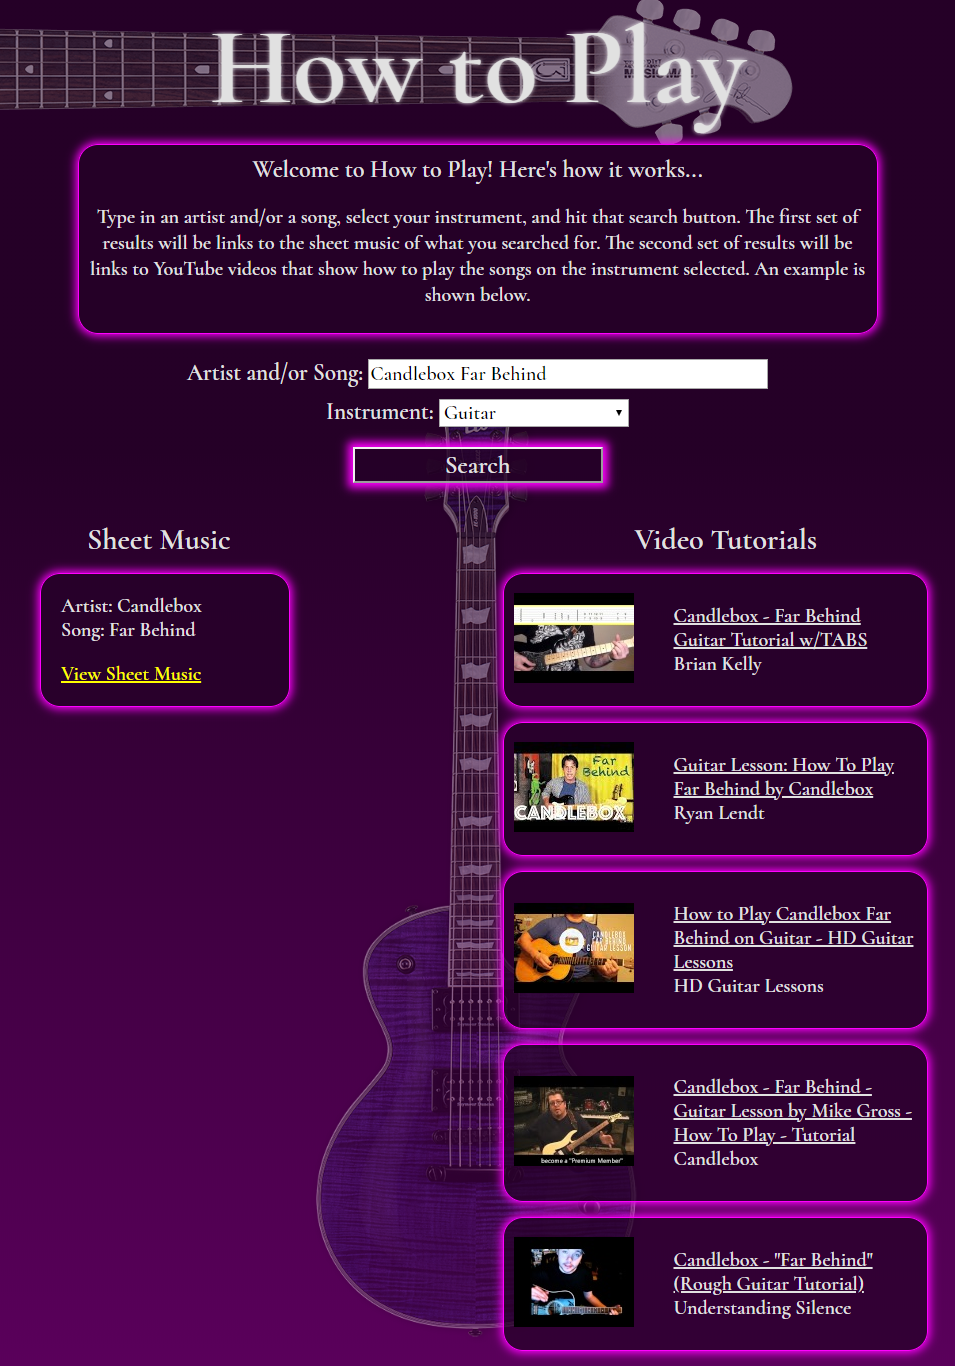
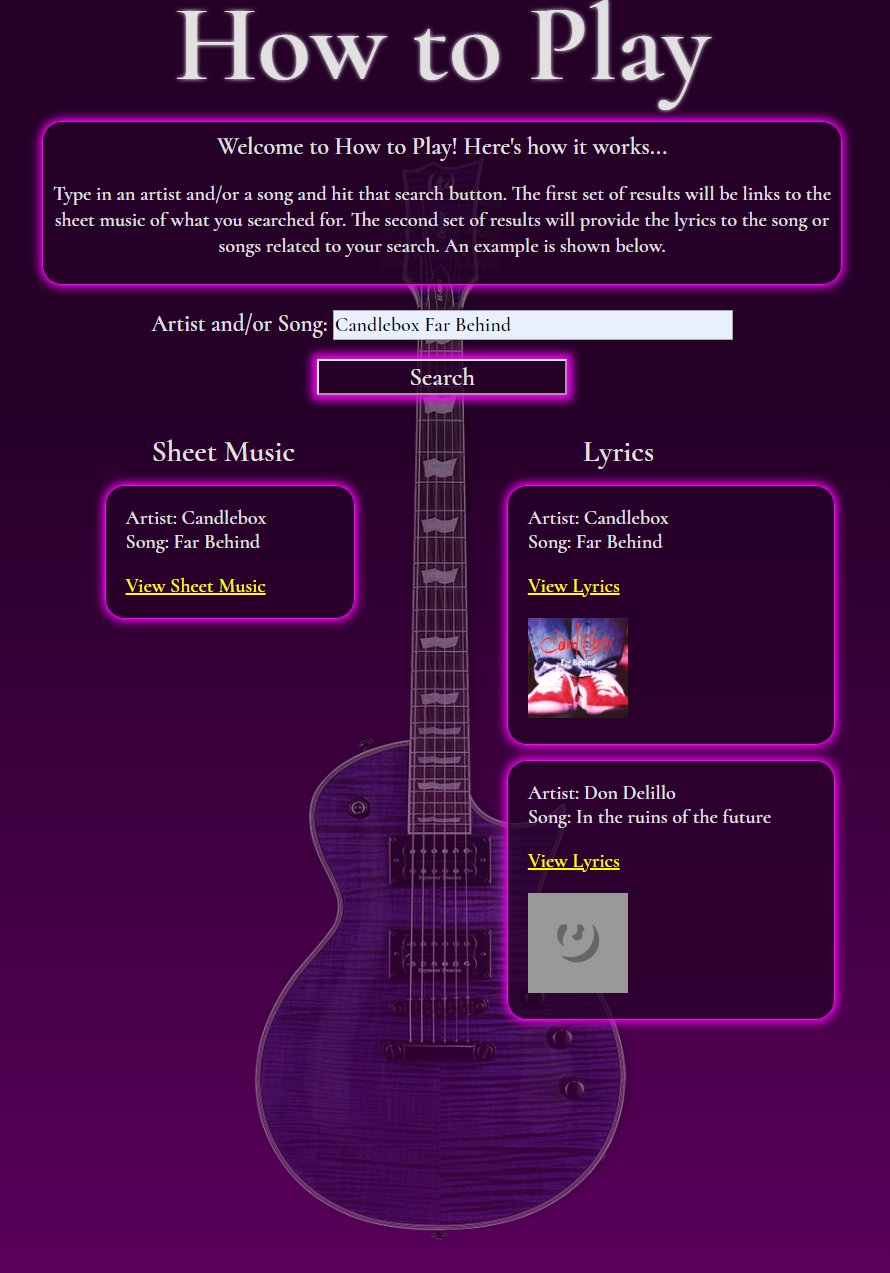
updated README and screenshot

diff --git a/index.html b/index.html
@@ -33,7 +33,8 @@
     <section class="intro-container">
         <h2>Welcome to How to Play! Here's how it works...</h2><br> 
         <p class="intro">Type in an artist and/or a song and hit that search button. 
-                         The first set of results will be links to the sheet music of what you searched for. 
+                         The first set of results will be links to the sheet music of what you searched for. After you click the link,
+                         you can choose which instrument you are playing, and the sheet music will change accordingly.
                          The second set of results will provide the lyrics to the song or songs related to your search.
                          An example is shown below.
         </p>

diff --git a/README.md b/README.md
@@ -1,14 +1,14 @@
 How to Play - https://dusven44.github.io/How-To-Play/
-A website designed to help users learn how to play their favorite songs on multiple instruments.
+A website designed to help users learn how to play their favorite songs on various instruments.
 
 Why?
-As a multi-instrument player, I'm always learning songs on every instrument that I play. I wanted a source for links to the sheet music AND the videos teaching me how to play almost any song.
+As a multi-instrument player, I'm always learning songs on every instrument that I play. I wanted a source for links to the sheet music along with lyrics for the artist and song. This app provides all of that.
 
 Screenshot
 ![site-screenshot](https://user-images.githubusercontent.com/62815629/81201234-ab466e80-8f8a-11ea-9bd8-edcded8bd574.png)
 
 Summary
-This site allows users to search for sheet music and video tutorials showing how to play songs by various artists. The user is able to search by artist, song or both. As a bonus, they can choose which instrument they want to learn the song on.
+This site allows users to search for sheet music and lyrics for their favorite artists and songs. The user is able to search by artist, song or both. The sheet music lets users choose which instrument they want to learn on.
 
 Built With
 HTML - CSS - JavaScript - JQuery
